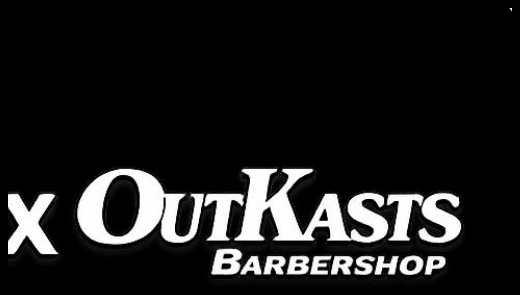
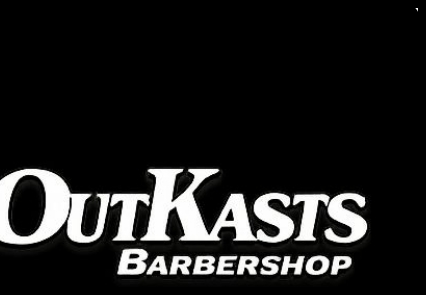
h

Changed region(s): [[0.0, 0.5492, 0.885, 0.9458]]

diff --git a/index.html b/index.html
@@ -17,24 +17,10 @@
     html,body { width:100%; overflow-x:hidden; background:#000; color:var(--ink); }
     body { font-family:Outfit,system-ui,sans-serif; }
     img { display:block; }
-    video { display:block; width:100%; }
     a { color:inherit; text-decoration:none; }
-    img[broken],video[broken] { display:none !important; }
+    img[broken] { display:none !important; }
 
-    .wall {
-      position:fixed; inset:0; z-index:0;
-      display:grid; grid-template-columns:1fr 1fr;
-    }
-    .wall video { height:25vh; object-fit:cover; }
-    @media (min-width:700px) {
-      .wall { grid-template-columns:repeat(4,1fr); }
-      .wall video { height:50vh; }
-    }
-    .shade {
-      position:fixed; inset:0; z-index:1; pointer-events:none;
-      background:rgba(0,0,0,.55);
-    }
-    .wrap { position:relative; z-index:2; background:transparent; }
+    .wrap { position:relative; z-index:2; background:#000; }
     .block, .bar, .hours, .pin, .menu a, .quotes article, .gbox { background:#000; }
 
     .top {
@@ -43,15 +29,40 @@
       padding:calc(8px + env(safe-area-inset-top)) 12px 8px;
       background:#000; border-bottom:3px solid var(--red);
     }
-    .brand { height:44px; width:auto; max-width:64vw; object-fit:contain; object-position:left center; }
-    .top nav { display:flex; gap:14px; }
+    .brand-lockup {
+      display:flex; align-items:center; gap:8px; min-width:0; max-width:70vw;
+    }
+    .brand-k { height:40px; width:auto; max-width:34vw; object-fit:contain; }
+    .feat {
+      display:flex; flex-direction:column; align-items:center; gap:1px; flex:none;
+    }
+    .feat small {
+      font-family:Oswald,sans-serif; letter-spacing:.14em; text-transform:uppercase;
+      font-size:.42rem; color:#9a948b;
+    }
+    .feat b {
+      font-family:Oswald,sans-serif; font-size:1.05rem; font-weight:600; color:#fff; line-height:1;
+    }
+    .brand-o { height:36px; width:auto; max-width:28vw; object-fit:contain; }
+    .top nav { display:flex; gap:14px; align-items:center; flex:none; }
+    .top nav a {
+      font-family:Oswald,sans-serif; letter-spacing:.12em; text-transform:uppercase; font-size:.7rem;
+    }
     .top nav a.book-here {
       background:var(--red); color:#fff; padding:8px 10px;
     }
 
-    .hero {
-      height:46vh; min-height:220px; background:transparent;
+    .shots {
+      position:relative;
+      height:48vh; min-height:240px;
+      overflow:hidden; background:#111;
     }
+    .shots img {
+      position:absolute; inset:0; width:100%; height:100%;
+      object-fit:cover; opacity:0;
+      transition:opacity .7s ease;
+    }
+    .shots img.is-on { opacity:1; }
     .bar {
       padding:16px 12px; background:#000; border-bottom:3px solid var(--red);
     }
@@ -69,8 +80,9 @@
     h2 { font-family:"Bebas Neue",sans-serif; font-size:clamp(2.2rem,11vw,4.2rem); line-height:.88; font-weight:400; text-transform:uppercase; }
 
     @media (min-width:800px) {
-      .hero { height:58vh; }
-      .brand { height:52px; }
+      .shots { height:62vh; }
+      .brand-k { height:48px; }
+      .brand-o { height:44px; }
     }
 
     .menu { display:grid; gap:3px; margin-top:14px; }
@@ -120,7 +132,7 @@
       width:68px; height:68px; padding:0; gap:0;
       display:grid; place-items:center;
       background:#fff; color:#111;
-      border-radius:50%;
+      border-radius:10px;
       overflow:hidden;
       box-shadow:0 10px 28px rgba(0,0,0,.45);
     }
@@ -142,20 +154,13 @@
   </style>
 </head>
 <body>
-  <div class="wall" aria-hidden="true">
-    <video src="https://litter.catbox.moe/cfo149.mp4" muted autoplay loop playsinline preload="metadata"></video>
-    <video src="https://litter.catbox.moe/54lyvd.mp4" muted autoplay loop playsinline preload="metadata"></video>
-    <video src="https://litter.catbox.moe/b83do5.mp4" muted autoplay loop playsinline preload="metadata"></video>
-    <video src="https://litter.catbox.moe/eoz955.mp4" muted autoplay loop playsinline preload="metadata"></video>
-    <video src="https://litter.catbox.moe/suy4uv.mp4" muted autoplay loop playsinline preload="metadata"></video>
-    <video src="https://litter.catbox.moe/kaxnzs.mp4" muted autoplay loop playsinline preload="metadata"></video>
-    <video src="https://litter.catbox.moe/lvbzpz.mp4" muted autoplay loop playsinline preload="metadata"></video>
-    <video src="https://litter.catbox.moe/vazu9y.mp4" muted autoplay loop playsinline preload="metadata"></video>
-  </div>
-  <div class="shade"></div>
   <div class="wrap">
   <header class="top">
-    <img class="brand" src="assets/collab.jpg" width="200" height="89" alt="KHUTTZZ x OutKasts" onerror="this.remove()" />
+    <a class="brand-lockup" href="index.html" aria-label="KHUTTZZ featuring OutKasts">
+      <img class="brand-k" src="assets/logo.png" alt="KHUTTZZ" onerror="this.remove()" />
+      <span class="feat"><small>featuring</small><b>×</b></span>
+      <img class="brand-o" src="assets/outkasts.png" alt="OutKasts Barbershop" onerror="this.remove()" />
+    </a>
     <nav>
       <a href="#menu">Menu</a>
       <a href="#reviews">Reviews</a>
@@ -163,7 +168,13 @@
     </nav>
   </header>
 
-  <section class="hero" aria-hidden="true"></section>
+  <section class="shots" aria-label="Recent cuts">
+    <img class="is-on" src="assets/work-1.jpg" alt="" />
+    <img src="assets/work-2.jpg" alt="" />
+    <img src="assets/work-3.jpg" alt="" />
+    <img src="assets/work-4.jpg" alt="" />
+    <img src="assets/work-5.jpg" alt="" />
+  </section>
   <section class="bar">
     <strong>Open 7 days a week</strong>
     <span>505 Highway 7 Unit B60 · Thornhill</span>
@@ -254,9 +265,19 @@
 
   </div>
   <script>
-    document.querySelectorAll("img,video").forEach(function (el) {
+    document.querySelectorAll("img").forEach(function (el) {
       el.addEventListener("error", function () { el.remove(); });
     });
+    (function () {
+      var shots = document.querySelectorAll(".shots img");
+      if (!shots.length) return;
+      var i = 0;
+      setInterval(function () {
+        shots[i].classList.remove("is-on");
+        i = (i + 1) % shots.length;
+        shots[i].classList.add("is-on");
+      }, 2800);
+    })();
   </script>
 </body>
 </html>

diff --git a/book.html b/book.html
@@ -20,7 +20,13 @@
       padding:calc(8px + env(safe-area-inset-top)) 12px 8px;
       background:#000; border-bottom:3px solid #e10600;
     }
-    .top img { height:44px; width:auto; max-width:52vw; object-fit:contain; }
+    .brand-lockup { display:flex; align-items:center; gap:8px; min-width:0; max-width:70vw; }
+    .brand-k { height:40px; width:auto; max-width:34vw; object-fit:contain; }
+    .feat { display:flex; flex-direction:column; align-items:center; }
+    .feat small { font-family:Oswald,sans-serif; letter-spacing:.14em; text-transform:uppercase; font-size:.42rem; color:#9a948b; }
+    .feat b { font-family:Oswald,sans-serif; font-size:1.05rem; color:#fff; line-height:1; }
+    .brand-o { height:36px; width:auto; max-width:28vw; object-fit:contain; }
+    .top img { height:auto; }
     .top nav a {
       font-family:Oswald,sans-serif; letter-spacing:.12em; text-transform:uppercase; font-size:.7rem;
     }
@@ -39,7 +45,7 @@
       bottom:calc(16px + env(safe-area-inset-bottom));
       width:68px; height:68px;
       display:grid; place-items:center;
-      background:#fff; border-radius:50%; overflow:hidden;
+      background:#fff; border-radius:10px; overflow:hidden;
       box-shadow:0 10px 28px rgba(0,0,0,.45);
     }
     .gfloat svg { width:28px; height:28px; }
@@ -55,7 +61,11 @@
 </head>
 <body>
   <header class="top">
-    <a href="index.html"><img src="assets/collab.jpg" width="200" height="89" alt="KHUTTZZ x OutKasts" onerror="this.remove()" /></a>
+    <a class="brand-lockup" href="index.html" aria-label="KHUTTZZ featuring OutKasts">
+      <img class="brand-k" src="assets/logo.png" alt="KHUTTZZ" onerror="this.remove()" />
+      <span class="feat"><small>featuring</small><b>×</b></span>
+      <img class="brand-o" src="assets/outkasts.png" alt="OutKasts Barbershop" onerror="this.remove()" />
+    </a>
     <nav>
       <a href="index.html">Home</a>
     </nav>

diff --git a/reviews.html b/reviews.html
@@ -24,7 +24,13 @@
       padding:calc(8px + env(safe-area-inset-top)) 14px 8px;
       background:#000; border-bottom:3px solid var(--red);
     }
-    .top img { height:40px; width:auto; max-width:62vw; object-fit:contain; }
+    .brand-lockup { display:flex; align-items:center; gap:8px; min-width:0; max-width:70vw; }
+    .brand-k { height:38px; width:auto; max-width:32vw; object-fit:contain; }
+    .feat { display:flex; flex-direction:column; align-items:center; }
+    .feat small { font-family:Oswald,sans-serif; letter-spacing:.14em; text-transform:uppercase; font-size:.42rem; color:#9a948b; }
+    .feat b { font-family:Oswald,sans-serif; font-size:1.05rem; color:#fff; line-height:1; }
+    .brand-o { height:34px; width:auto; max-width:26vw; object-fit:contain; }
+    .top img { height:auto; }
     .top a { font-family:Oswald,sans-serif; letter-spacing:.12em; text-transform:uppercase; font-size:.72rem; }
 
     .hero {
@@ -57,7 +63,7 @@
       position:fixed; z-index:30; right:16px; bottom:calc(16px + env(safe-area-inset-bottom));
       width:68px; height:68px; padding:0;
       display:grid; place-items:center;
-      background:#fff; border-radius:50%;
+      border-radius:10px;
       box-shadow:0 10px 30px rgba(0,0,0,.45);
     }
     .gfloat svg { width:28px; height:28px; }
@@ -71,7 +77,11 @@
 </head>
 <body>
   <header class="top">
-    <img src="assets/collab.jpg" alt="KHUTTZZ x OutKasts" onerror="this.remove()" />
+    <a class="brand-lockup" href="index.html" aria-label="KHUTTZZ featuring OutKasts">
+      <img class="brand-k" src="assets/logo.png" alt="KHUTTZZ" onerror="this.remove()" />
+      <span class="feat"><small>featuring</small><b>×</b></span>
+      <img class="brand-o" src="assets/outkasts.png" alt="OutKasts Barbershop" onerror="this.remove()" />
+    </a>
     <a href="index.html">Home</a>
   </header>
 
